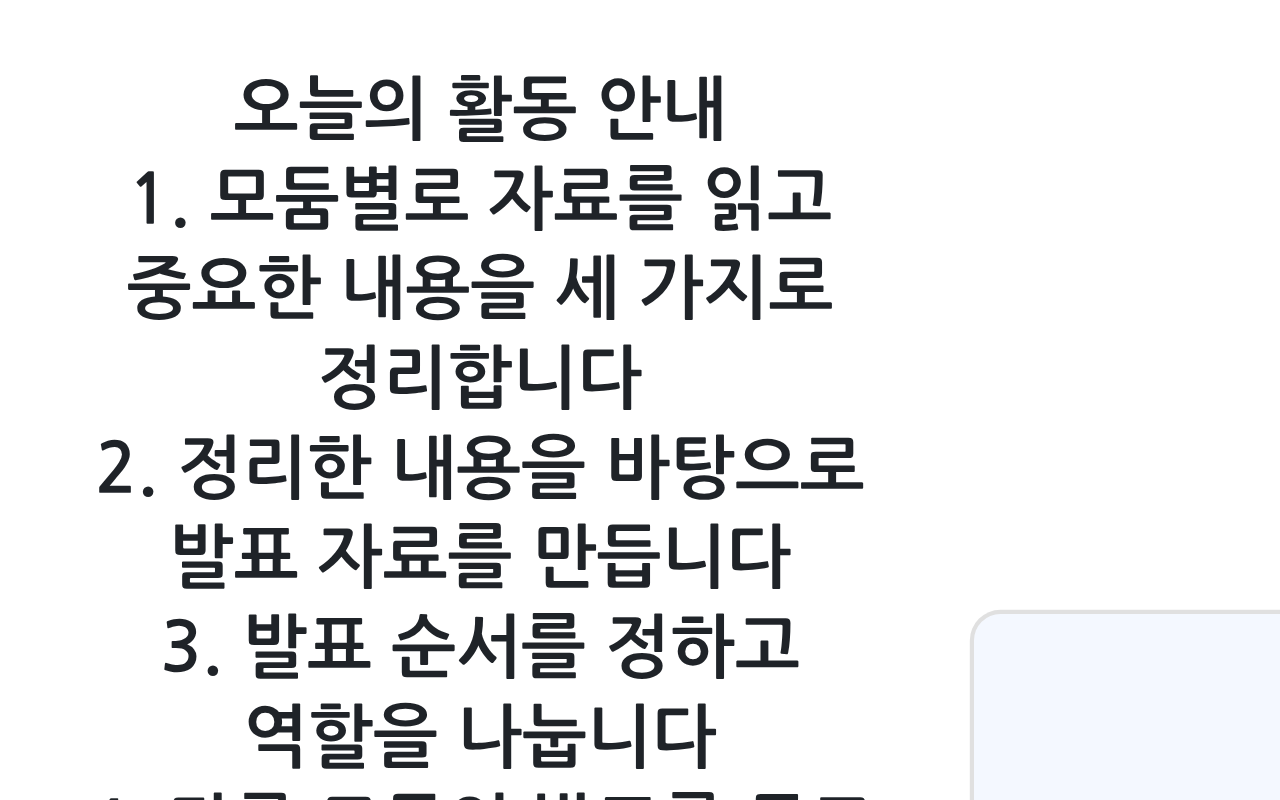
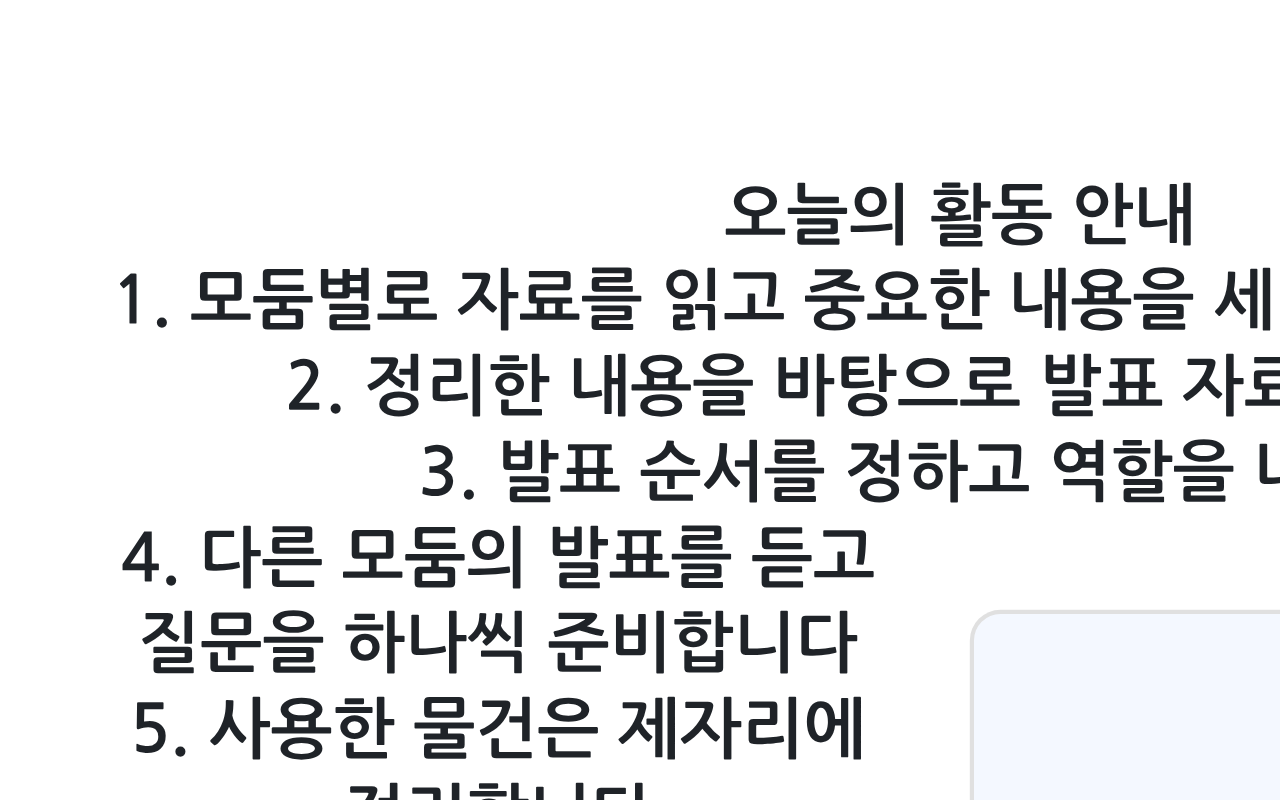
함께 보기: 칠판 문구가 타이머 위 오른쪽 빈 곳까지 쓰도록 ㄱ자 배치 (v1.4.6)
- 타이머 영역만 비우고 위쪽 줄은 화면 끝까지, 옆 줄은 왼쪽 절반까지 흐르게 함
- 자동 크기에서 직접 쓴 줄을 나누지 않는 크기를 우선
- 세로 정렬(위/가운데/아래) 유지, E2E 검사 추가

Claude-Session: https://claude.ai/code/session_01LsaNWarko4tBqDD5n3EM44

diff --git a/src/renderer/common/fit.ts b/src/renderer/common/fit.ts
@@ -65,3 +65,104 @@ export function widestAt100(names: string[], weight = 800): number {
   for (const n of names) w = Math.max(w, ctx.measureText(n).width);
   return Math.max(w, 120);
 }
+
+// ---------------- ㄱ자 영역 (오른쪽 아래가 비어 있는 칸) ----------------
+
+let lbox: { box: HTMLDivElement; f1: HTMLDivElement; f2: HTMLDivElement; pad: HTMLDivElement; text: HTMLDivElement } | null = null;
+
+function getLBox() {
+  if (lbox && document.body.contains(lbox.box)) return lbox;
+  const box = document.createElement('div');
+  box.setAttribute('aria-hidden', 'true');
+  Object.assign(box.style, { position: 'fixed', left: '-100000px', top: '0', visibility: 'hidden', pointerEvents: 'none' } as CSSStyleDeclaration);
+  box.className = 'board-text-measure';
+  const f1 = document.createElement('div');
+  const f2 = document.createElement('div');
+  const pad = document.createElement('div');
+  const text = document.createElement('div');
+  Object.assign(f1.style, { float: 'right', width: '0' });
+  Object.assign(f2.style, { float: 'right', clear: 'right' });
+  Object.assign(text.style, { whiteSpace: 'pre-wrap', wordBreak: 'keep-all', overflowWrap: 'anywhere' });
+  box.append(f1, f2, pad, text);
+  document.body.appendChild(box);
+  lbox = { box, f1, f2, pad, text };
+  return lbox;
+}
+
+export interface LShape {
+  width: number;
+  height: number;
+  cutW: number; // 오른쪽 아래 비워 둘 너비
+  cutH: number; // 오른쪽 아래 비워 둘 높이
+}
+
+/**
+ * width×height 칸에서 오른쪽 아래 cutW×cutH를 비워 둔 ㄱ자 영역에 글을 넣는다.
+ * 위쪽 줄은 전체 너비를, 비운 칸 옆 줄은 남은 왼쪽 너비를 쓴다 (글자가 비운 칸을 가리지 않음).
+ * 반환: 글자 크기와, 세로 정렬을 위한 위쪽 여백
+ */
+export function fitLShape(text: string, shape: LShape, maxPx: number, style: FitStyle, vAlign: 'top' | 'middle' | 'bottom' = 'top'): { px: number; offset: number } {
+  const { width, height, cutW, cutH } = shape;
+  if (width <= 4 || height <= 4) return { px: 8, offset: 0 };
+  const m = getLBox();
+  m.box.style.width = `${Math.floor(width)}px`;
+  m.box.style.height = `${Math.floor(height)}px`;
+  m.f1.style.height = `${Math.max(0, Math.floor(height - cutH))}px`;
+  m.f2.style.width = `${Math.ceil(cutW)}px`;
+  m.f2.style.height = `${Math.ceil(cutH)}px`;
+  m.text.style.fontWeight = style.bold ? '800' : '500';
+  m.text.style.textAlign = style.align;
+  m.text.style.lineHeight = String(style.lineHeight);
+  m.text.textContent = text.length ? text + (text.endsWith('\n') ? ' ' : '') : ' ';
+  /** 이 크기·위쪽 여백에서 글의 아래 끝 (넘치면 height보다 큼) */
+  const bottomAt = (px: number, off: number) => {
+    m.text.style.fontSize = `${px}px`;
+    m.pad.style.height = `${off}px`;
+    return m.text.offsetTop + m.text.offsetHeight;
+  };
+  const fits = (px: number) => bottomAt(px, 0) <= height;
+  const search = (ok: (px: number) => boolean, top: number) => {
+    let lo = 6;
+    let hi = Math.max(lo, Math.floor(top));
+    if (ok(hi)) return hi;
+    while (hi - lo > 1) {
+      const mid = Math.floor((lo + hi) / 2);
+      if (ok(mid)) lo = mid;
+      else hi = mid;
+    }
+    return lo;
+  };
+  // 1) 줄을 나눠도 되면 가장 큰 크기
+  const pxAny = search(fits, maxPx);
+  // 2) 쓴 줄을 하나도 나누지 않고(한 줄은 한 줄로) 들어가는 가장 큰 크기
+  const paras = text.replace(/\n$/, '').split('\n').length;
+  const lineCount = () => {
+    const r = document.createRange();
+    r.selectNodeContents(m.text);
+    return new Set([...r.getClientRects()].filter((x) => x.width > 0.5).map((x) => Math.round(x.top))).size;
+  };
+  const noSplit = (px: number) => fits(px) && lineCount() <= paras;
+  const pxNoSplit = search(noSplit, pxAny);
+  // 줄을 나누지 않아도 글자가 충분히 크면(70% 이상) 그쪽을 쓴다: 남는 공간이 비고 줄이 쪼개지는 것을 피함
+  const px = noSplit(pxNoSplit) && pxNoSplit >= pxAny * 0.7 ? pxNoSplit : pxAny;
+  if (vAlign === 'top') return { px, offset: 0 };
+  // 세로 정렬: 남는 높이만큼 위쪽 여백을 준다. 여백 때문에 줄이 비운 칸 옆으로 내려가면
+  // 다시 줄바꿈되어 높이가 달라지므로, 넘치지 않는 가장 큰 여백을 찾는다
+  const want = (off: number) => {
+    const used = bottomAt(px, off) - off;
+    return vAlign === 'middle' ? (height - used) / 2 : height - used;
+  };
+  let off = Math.max(0, want(0));
+  for (let i = 0; i < 4; i++) off = Math.max(0, Math.min(off, want(off)));
+  let a = 0;
+  let b = off;
+  if (bottomAt(px, b) > height) {
+    for (let i = 0; i < 12; i++) {
+      const mid = (a + b) / 2;
+      if (bottomAt(px, mid) <= height) a = mid;
+      else b = mid;
+    }
+    off = a;
+  }
+  return { px, offset: Math.floor(off) };
+}

diff --git a/src/renderer/common/StudentScreen.tsx b/src/renderer/common/StudentScreen.tsx
@@ -7,7 +7,7 @@ import { koreanHolidays } from '../../shared/holidays';
 import { REGIONS, airGrade, buildPeriods, periodNow, weatherText } from '../../shared/widget';
 import { WEEKDAY_KO, localDateKey, pad2 } from '../../shared/util';
 import { formatClock } from '../../shared/util';
-import { fitFontPx, widestAt100 } from './fit';
+import { fitFontPx, fitLShape, widestAt100 } from './fit';
 import { FitText } from './FitText';
 import { useNow, useSize, useFontsReady } from './hooks';
 
@@ -63,26 +63,50 @@ export function boardFontPx(board: StudentBoardView, innerW: number, innerH: num
 }
 
 // ---------------- 칠판 + 타이머 함께 보기 ----------------
+// 오른쪽 아래 1/4(가로 50% × 세로 50%)은 타이머 전용.
+// 칠판 문구는 나머지 ㄱ자 영역 전체를 쓴다: 위쪽 줄은 화면 전체 너비, 타이머 옆 줄은 왼쪽 절반 너비.
+// 글자가 타이머를 가리지 않고, 남는 오른쪽 위 공간도 비지 않는다.
 function SplitView({ board, timer, size }: { board: StudentBoardView; timer: StudentTimerView; size: { w: number; h: number } }) {
   const { w, h } = size;
-  // 오른쪽 아래 1/4(가로 50% × 세로 50%)은 타이머 전용. 칠판 문구는 남은 영역 중
-  // 위쪽 띠(전체 너비 × 위 50%)와 왼쪽 띠(왼쪽 50% × 전체 높이) 가운데 글씨가 더 크게 들어가는 쪽에 배치한다.
-  const layout = useMemo(() => {
-    const padTop = Math.round(Math.min(w, h / 2) * 0.06);
-    const padLeft = Math.round(Math.min(w / 2, h) * 0.06);
-    const top = boardFontPx(board, w - padTop * 2, h / 2 - padTop * 2, h);
-    const left = boardFontPx(board, w / 2 - padLeft * 2, h - padLeft * 2, h);
-    return left > top ? 'left' : 'top';
-  }, [board, w, h]);
-  const bw = layout === 'top' ? w : w / 2;
-  const bh = layout === 'top' ? h / 2 : h;
   return (
     <div className="st-split" style={{ background: board.bg }}>
-      <div className={`st-split-board st-split-board-${layout}`} style={{ width: bw, height: bh }} data-testid="split-board" data-layout={layout}>
-        <BoardArea board={board} w={bw} h={bh} refH={h} />
+      <div className="st-split-board" style={{ width: w, height: h }} data-testid="split-board" data-layout="l-shape">
+        <LBoardArea board={board} w={w} h={h} cutW={w / 2} cutH={h / 2} />
       </div>
       <div className="st-split-timer" style={{ width: w / 2, height: h / 2 }} data-testid="split-timer">
         <TimerPanel timer={timer} variant="split" />
+      </div>
+    </div>
+  );
+}
+
+/** 오른쪽 아래(cutW×cutH)를 비워 둔 칠판 */
+function LBoardArea({ board, w, h, cutW, cutH }: { board: StudentBoardView; w: number; h: number; cutW: number; cutH: number }) {
+  const pad = Math.round(Math.min(w, h) * 0.05);
+  const gap = Math.round(Math.min(w, h) * 0.02); // 타이머와 글 사이 여백
+  const innerW = Math.max(0, w - pad * 2);
+  const innerH = Math.max(0, h - pad * 2);
+  const cw = Math.min(innerW, cutW - pad + gap);
+  const ch = Math.min(innerH, cutH - pad + gap);
+  const fit = useMemo(() => {
+    if (!board.text.trim()) return { px: 16, offset: 0 };
+    const max = board.autoFit ? h * 0.4 : (h * board.fontSize) / 100;
+    return fitLShape(board.text, { width: innerW, height: innerH, cutW: cw, cutH: ch }, max, { bold: board.bold, align: board.align, lineHeight: LINE_HEIGHT }, board.vAlign ?? 'middle');
+  }, [board, innerW, innerH, cw, ch, h]);
+  return (
+    <div className="st-board" style={{ background: board.bg, color: board.color, padding: pad, width: w, height: h }}>
+      <div className="st-lbox" style={{ width: innerW, height: innerH }}>
+        <div style={{ float: 'right', width: 0, height: Math.max(0, innerH - ch) }} />
+        <div style={{ float: 'right', clear: 'right', width: cw, height: ch }} data-testid="board-cut" />
+        <div style={{ height: fit.offset }} />
+        <div
+          className="st-lbox-text"
+          data-testid="board-text"
+          data-valign={board.vAlign ?? 'middle'}
+          style={{ fontSize: fit.px, fontWeight: board.bold ? 800 : 500, textAlign: board.align, lineHeight: LINE_HEIGHT }}
+        >
+          {board.text}
+        </div>
       </div>
     </div>
   );

diff --git a/src/renderer/styles.css b/src/renderer/styles.css
@@ -33,6 +33,8 @@ body.student.hide-cursor, body.student.hide-cursor * { cursor: none; }
 .st-board-text { flex: 1; display: flex; align-items: center; white-space: pre-wrap; word-break: keep-all; overflow-wrap: anywhere; min-width: 0; }
 .st-board-text > span { display: block; }
 .board-text-measure { font-family: var(--font); }
+.st-lbox { overflow: hidden; }
+.st-lbox-text { white-space: pre-wrap; word-break: keep-all; overflow-wrap: anywhere; }
 
 .st-split { position: relative; width: 100%; height: 100%; }
 .st-split-board { position: absolute; left: 0; top: 0; overflow: hidden; }

diff --git a/README.md b/README.md
@@ -153,7 +153,8 @@ scripts/           # 빌드, 아이콘 생성, Linux에서 Windows 설치 파일
   - 2분보다 오래 지난 발생은 실행하지 않고 ‘놓침’으로 기록합니다.
   - 절전 복귀(`resume`) 때도 즉시 판정합니다.
 - **칠판 + 타이머 함께 보기**: 오른쪽 아래 1/4(가로 50% × 세로 50%)은 타이머 전용 영역입니다.
-  - 칠판 문구는 ‘위쪽 절반 띠’와 ‘왼쪽 절반 띠’ 중 글씨가 더 크게 들어가는 쪽에 배치합니다.
+  - 칠판 문구는 타이머를 뺀 ㄱ자 공간 전체에 흐릅니다. 타이머 위쪽 줄은 화면 끝까지, 타이머 옆 줄은 왼쪽 절반까지 씁니다.
+  - 글자 크기를 자동으로 맞출 때는 직접 쓴 줄을 중간에 나누지 않는 크기를 우선합니다(그 크기가 최대 크기의 70% 이상일 때).
   - 넘칠 때는 글자 크기를 줄이고 줄을 바꿀 뿐, 문구를 자르지 않습니다.
 
 ### 데이터 구조 (요약)
